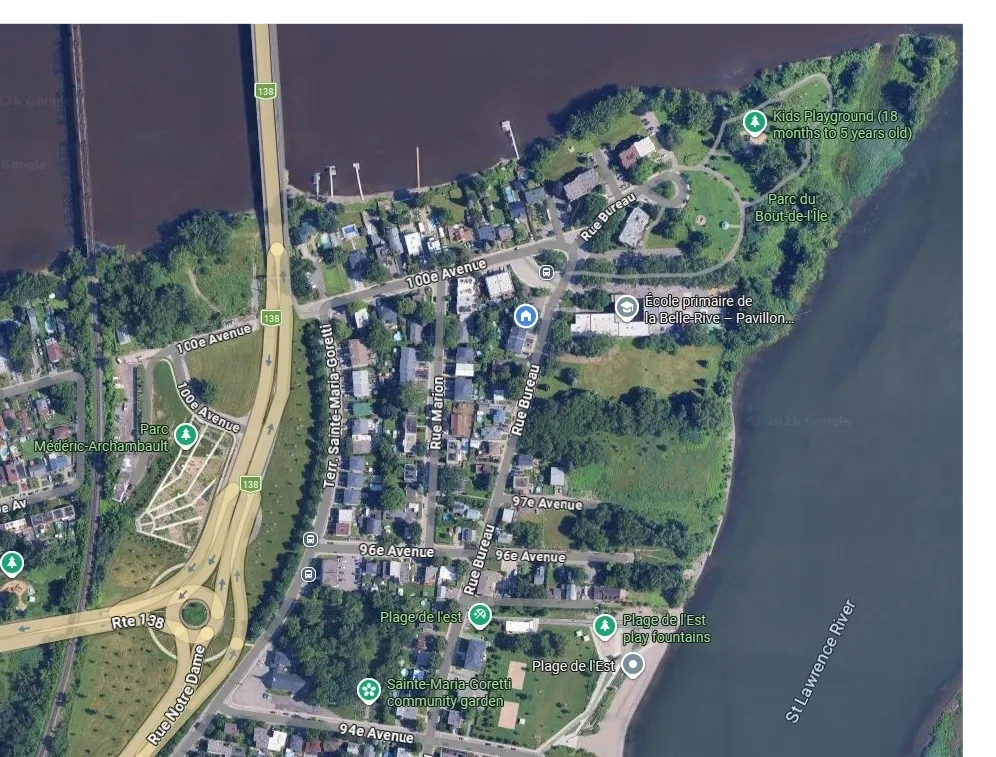
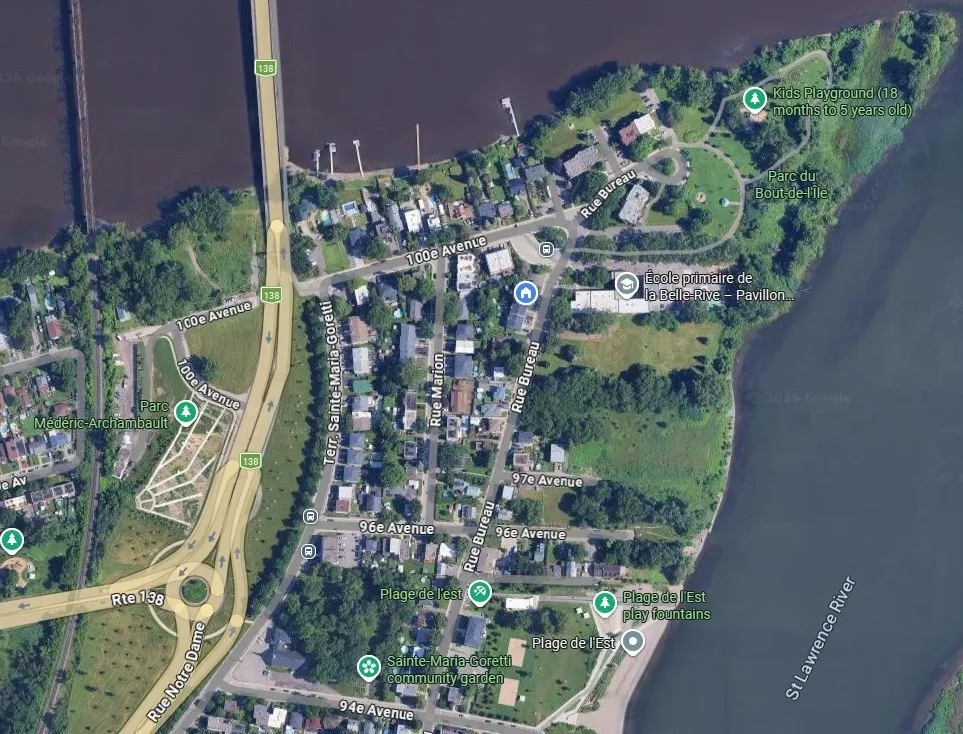
Crop transparent borders from Localisation_16365.png
The PNG had ~23px of transparent pixels on top and ~33px on the right,
which appeared as gaps between the image and its rounded frame. Crop
the image to its opaque bounding box (963x734) and revert the CSS to
the simple width:100%/height:auto layout.

https://claude.ai/code/session_01Naww4upc7FstnY4VJvAyNR

diff --git a/projets/pointe-est/index.html b/projets/pointe-est/index.html
@@ -70,8 +70,8 @@
     .card-body p { font-size:.82rem; color:var(--muted); line-height:1.6; }
 
     /* MAP */
-    .map-wrap { border-radius:12px; overflow:hidden; border:1px solid var(--line); aspect-ratio:996/757; }
-    .map-wrap img { width:100%; height:100%; display:block; object-fit:cover; }
+    .map-wrap { border-radius:12px; overflow:hidden; border:1px solid var(--line); }
+    .map-wrap img { width:100%; height:auto; display:block; }
 
     /* LOC LIST */
     .loc-list { display:flex; flex-direction:column; gap:12px; }
